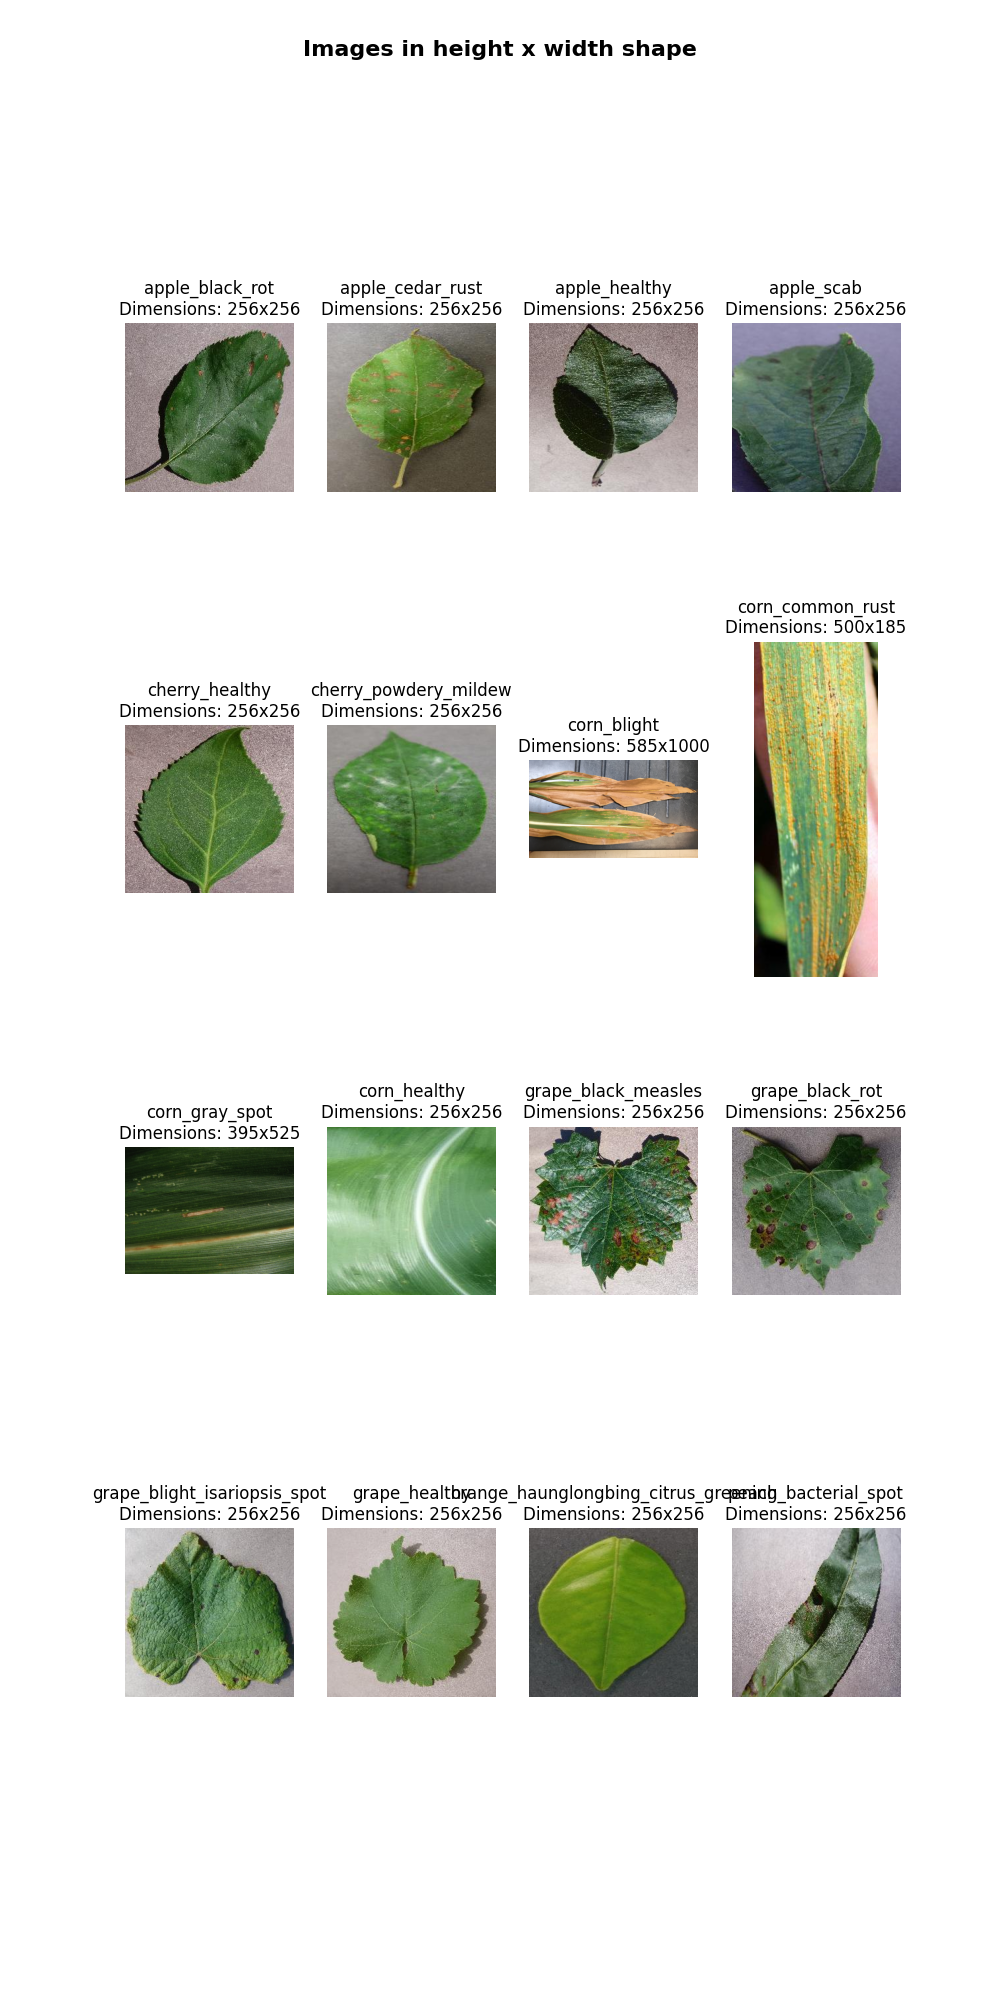
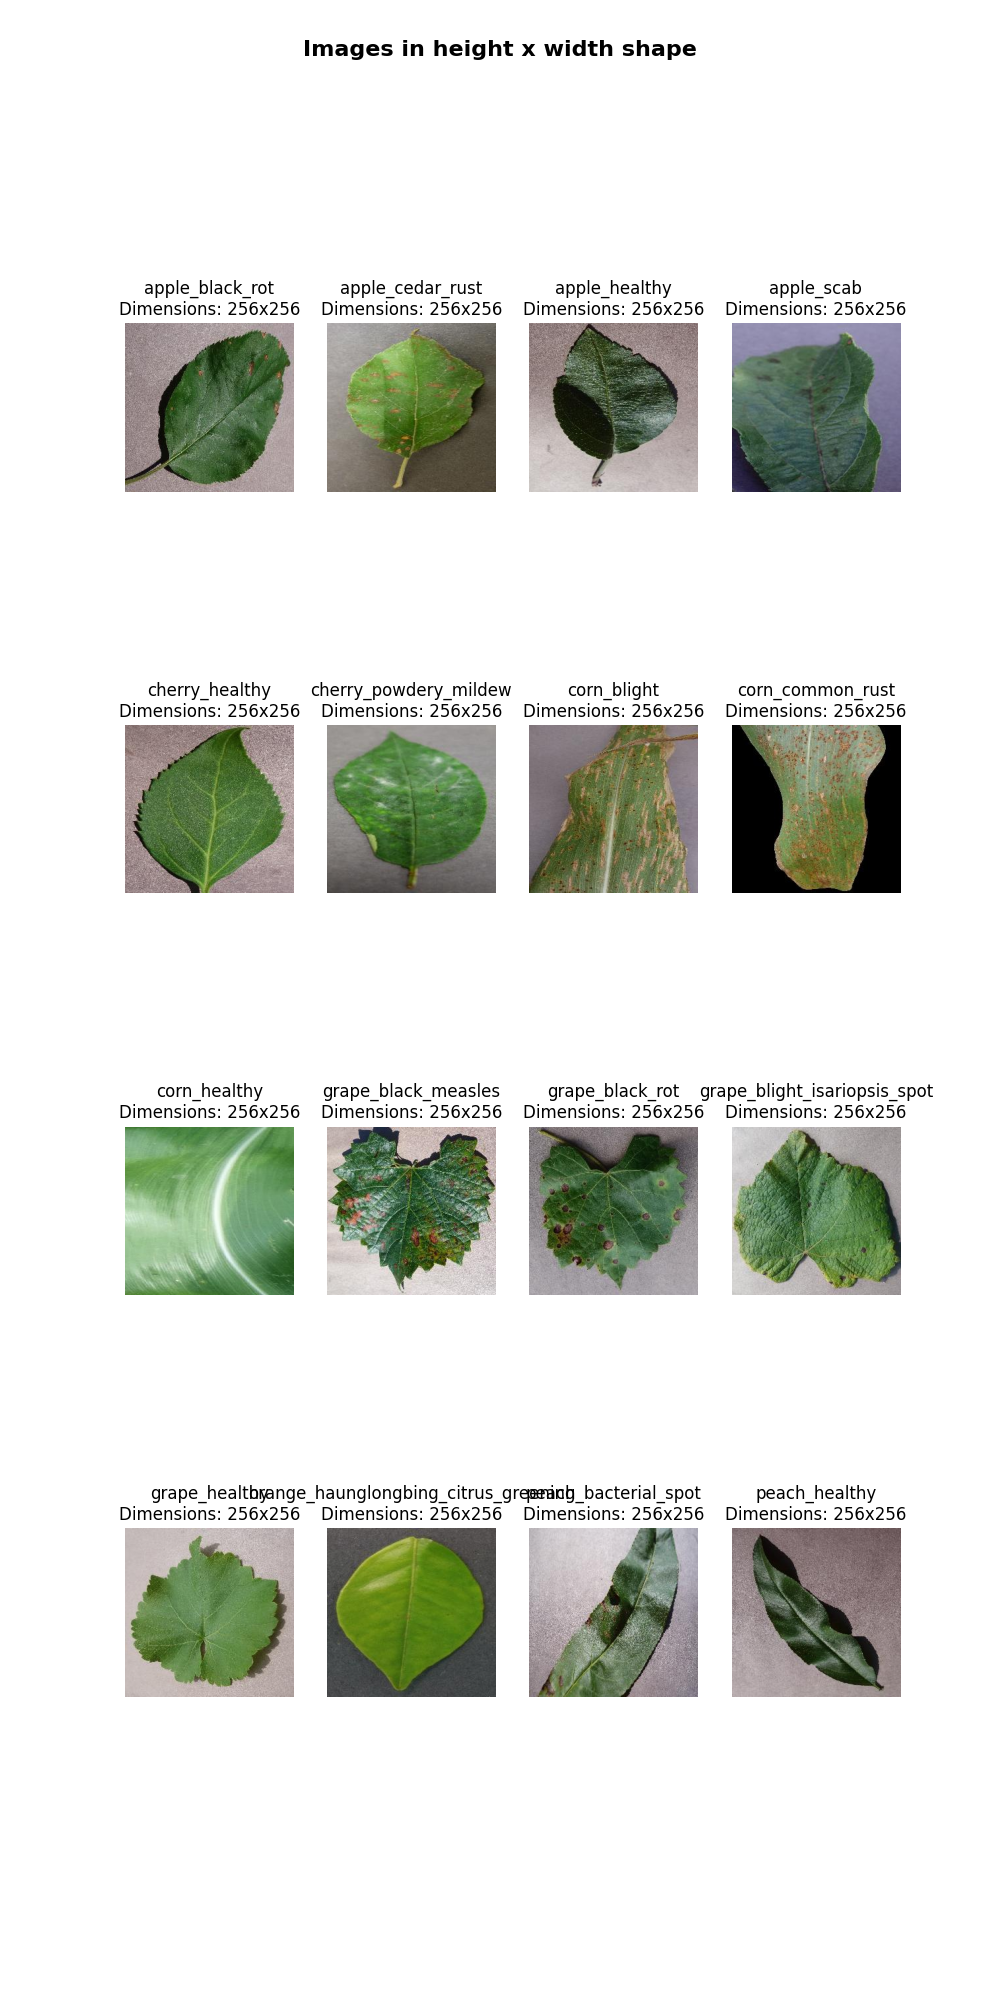
retraining
updated all relevant information about training process, deleted some stuff that is no longer used or doesnt work, removed corn_gray_spot images from the dataset as it is too familiar to corn_blight and it would require separate binary classification model to distinguish between those two classes, thus dataset now consists of 31 class.

diff --git a/train_util/custom_clahe.py b/train_util/custom_clahe.py
@@ -4,6 +4,7 @@ import numpy as np
 from typing import Tuple
 from PIL import Image
 
+
 class CustomCLAHE(object):
     def __init__(self, clip_limit: float = 2.0, tile_grid_size: Tuple[int, int] = (8, 8)):
         """Initializes an object of CustomCLAHE class with specified parameters.
@@ -24,7 +25,7 @@ class CustomCLAHE(object):
 
         img = np.array(img)
 
-        # Converts the image from BGR to LAB color space
+        # Converts the image from RGB to LAB color space
         lab_image = cv2.cvtColor(img, cv2.COLOR_RGB2LAB)
         l_channel, a_channel, b_channel = cv2.split(lab_image)
 
@@ -35,7 +36,7 @@ class CustomCLAHE(object):
         # Merges the equalized L channel with original a and b channels
         equalized_lab_image = cv2.merge([equalized_l_channel, a_channel, b_channel])
 
-        # Converts the equalized LAB image back to BGR color space
+        # Converts the equalized LAB image back to RGB color space
         equalized_bgr_image = cv2.cvtColor(equalized_lab_image, cv2.COLOR_LAB2RGB)
 
         return Image.fromarray(equalized_bgr_image)

diff --git a/deployment/docker/app/custom_clahe.py b/deployment/docker/app/custom_clahe.py
@@ -25,7 +25,7 @@ class CustomCLAHE(object):
 
         img = np.array(img)
 
-        # Converts the image from BGR to LAB color space
+        # Converts the image from RGB to LAB color space
         lab_image = cv2.cvtColor(img, cv2.COLOR_RGB2LAB)
         l_channel, a_channel, b_channel = cv2.split(lab_image)
 
@@ -36,7 +36,7 @@ class CustomCLAHE(object):
         # Merges the equalized L channel with original a and b channels
         equalized_lab_image = cv2.merge([equalized_l_channel, a_channel, b_channel])
 
-        # Converts the equalized LAB image back to BGR color space
+        # Converts the equalized LAB image back to RGB color space
         equalized_bgr_image = cv2.cvtColor(equalized_lab_image, cv2.COLOR_LAB2RGB)
 
         return Image.fromarray(equalized_bgr_image)

diff --git a/deployment/local/server/custom_clahe.py b/deployment/local/server/custom_clahe.py
@@ -25,7 +25,7 @@ class CustomCLAHE(object):
 
         img = np.array(img)
 
-        # Converts the image from BGR to LAB color space
+        # Converts the image from RGB to LAB color space
         lab_image = cv2.cvtColor(img, cv2.COLOR_RGB2LAB)
         l_channel, a_channel, b_channel = cv2.split(lab_image)
 
@@ -36,7 +36,7 @@ class CustomCLAHE(object):
         # Merges the equalized L channel with original a and b channels
         equalized_lab_image = cv2.merge([equalized_l_channel, a_channel, b_channel])
 
-        # Converts the equalized LAB image back to BGR color space
+        # Converts the equalized LAB image back to RGB color space
         equalized_bgr_image = cv2.cvtColor(equalized_lab_image, cv2.COLOR_LAB2RGB)
 
         return Image.fromarray(equalized_bgr_image)

diff --git a/train/local_training.py b/train/local_training.py
@@ -113,17 +113,6 @@ def show_batch(dataset_loader: DataLoader, num_of_images: int = 9) -> None:
         print("Error:", msg)
 
 
-# def custom_clahe_transform(img: Image) -> Image:
-#     """Apply custom Contrast Limited Adaptive Histogram Equalization (CLAHE) transformation to an image.
-#
-#     :param img: The input image to be transformed.
-#     :returns: The transformed image.
-#     """
-#
-#     transform = CustomCLAHE(clip_limit=2.0, tile_grid_size=(8, 8))
-#     return transform(img)
-
-
 def loader_shape(dataset_loader: DataLoader) -> Tuple[torch.Size, torch.Size]:
     """Print shape of loaded dataset
 

diff --git a/deployment/local/server/main.py b/deployment/local/server/main.py
@@ -113,10 +113,6 @@ def home():
 def show_about():
     """Get deployment information, for debugging."""
 
-    def bash(command: str):
-        output: str = os.popen(command).read()
-        return output
-
     return {
         "sys.version": sys.version,
         "torch.__version__": torch.__version__,
@@ -124,7 +120,6 @@ def show_about():
         "torch.version.cuda": torch.version.cuda,
         "torch.backends.cudnn.version()": torch.backends.cudnn.version(),
         "torch.backends.cudnn.enabled": torch.backends.cudnn.enabled,
-        "nvidia-smi": bash('nvidia-smi')
     }
 
 

diff --git a/deployment/docker/app/models.py b/deployment/docker/app/models.py
@@ -87,7 +87,7 @@ class ResModel(nn.Module):
 
         self.classifier = nn.Sequential(
             nn.Dropout(p=0.5),
-            nn.Linear(1024, 32)
+            nn.Linear(1024, 31)
         )
 
     def forward(self, x: Tensor) -> Tensor:

diff --git a/train/res_model.py b/train/res_model.py
@@ -87,7 +87,7 @@ class ResModel(nn.Module):
 
         self.classifier = nn.Sequential(
             nn.Dropout(p=0.5),
-            nn.Linear(1024, 32)
+            nn.Linear(1024, 31)
         )
 
     def forward(self, x: Tensor) -> Tensor:

diff --git a/train/config.py b/train/config.py
@@ -1,10 +1,10 @@
 root_dir = "../data/plant_dataset_original/plant_diseases_images"
 
 batch_size = 32
-epochs = 22
+epochs = 16
 seed = 255
 
-load_trained_model = False
+load_trained_model = True
 
 focal_loss = {
     'alpha': 0.50,
